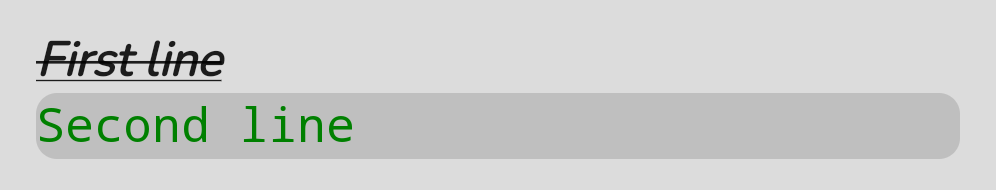
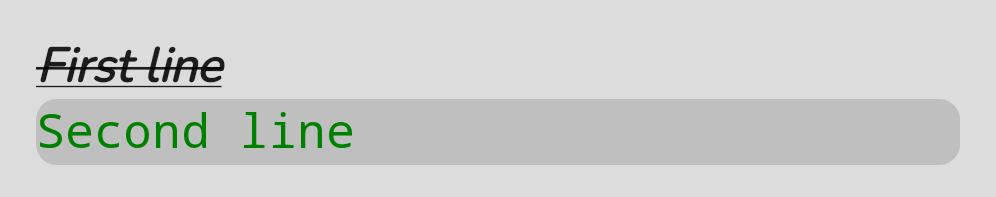
fix(Android): Measurement jumps (#864)
# Summary

While testing new `onScroll` prop I found out that we've had issues with
Android measurement jumps pretty much since auto-growth was added.

It can be seen here:

https://github.com/user-attachments/assets/1f14217c-fa68-4477-a501-bb8c90a821f9

Basically, strange scrolls and Input component offsets whenever:
- adding characters to an empty line
- removing characters from a line, resulting in emptying it
- adding new lines before reaching input's `maxHeight`

### 1. Empty lines measured too short

For apps targeting SDK 35+, `EditText` uses a locale-preferred minimum
line height (`setLocalePreferredLineHeightForMinimumUsed`), which keeps
empty lines as tall as lines with text. `MeasurementStore`'s
`StaticLayout` didn't apply it, so empty and code block lines were
measured a few px shorter than drawn. The view came out too short and
`EditText` scrolled by the difference (the `0.76` offset).

**Fix:** `MeasurementStore` applies the same
`setMinimumFontMetrics(paint.getFontMetricsForLocale(...))` when the
view uses it.

### 2. One-line jump while growing

The height update goes through an async Fabric state update. Before the
view grows, the new line is already laid out, and `EditText` scrolls it
into view, then back after the resize (`0 → 24.76 → 0`).

**Fix:** while a height update is pending, `scrollTo` caps the scroll at
the value it will have after the resize. It works that out from the
height limit Yoga passes to `measure()`: `0` if the text fits under it,
[…]

diff --git a/android/src/main/java/com/swmansion/enriched/textinput/MeasurementStore.kt b/android/src/main/java/com/swmansion/enriched/textinput/MeasurementStore.kt
@@ -1,6 +1,7 @@
 package com.swmansion.enriched.textinput
 
 import android.content.Context
+import android.graphics.Paint
 import android.graphics.Typeface
 import android.graphics.text.LineBreaker
 import android.os.Build
@@ -28,6 +29,7 @@ object MeasurementStore {
   data class PaintParams(
     val typeface: Typeface,
     val fontSize: Float,
+    val useLocalePreferredLineHeight: Boolean,
   )
 
   data class MeasurementParams(
@@ -36,6 +38,8 @@ object MeasurementStore {
     val cachedSize: Long,
     val spannable: CharSequence?,
     val paintParams: PaintParams,
+    // In px, as given by Yoga's measure
+    val maxTextHeight: Float? = null,
   )
 
   private val data = ConcurrentHashMap<Int, MeasurementParams>()
@@ -44,21 +48,25 @@ object MeasurementStore {
     id: Int,
     spannable: Spannable?,
     paint: TextPaint,
+    useLocalePreferredLineHeight: Boolean,
   ): Boolean {
     val cachedWidth = data[id]?.cachedWidth ?: 0f
     val cachedSize = data[id]?.cachedSize ?: 0L
     val initialized = data[id]?.initialized ?: true
+    val maxTextHeight = data[id]?.maxTextHeight
 
-    val size = measure(cachedWidth, spannable, paint)
-    val paintParams = PaintParams(paint.typeface, paint.textSize)
+    val size = measure(cachedWidth, spannable, paint, useLocalePreferredLineHeight)
+    val paintParams = PaintParams(paint.typeface, paint.textSize, useLocalePreferredLineHeight)
 
-    data[id] = MeasurementParams(initialized, cachedWidth, size, spannable, paintParams)
+    data[id] = MeasurementParams(initialized, cachedWidth, size, spannable, paintParams, maxTextHeight)
     return cachedSize != size
   }
 
   fun release(id: Int) {
     data.remove(id)
   }
+
+  fun getMaxTextHeight(id: Int): Float? = data[id]?.maxTextHeight
 
   private fun measure(
     maxWidth: Float,
@@ -71,13 +79,14 @@ object MeasurementStore {
         textSize = paintParams.fontSize
       }
 
-    return measure(maxWidth, spannable, paint)
+    return measure(maxWidth, spannable, paint, paintParams.useLocalePreferredLineHeight)
   }
 
   private fun measure(
     maxWidth: Float,
     spannable: CharSequence?,
     paint: TextPaint,
+    useLocalePreferredLineHeight: Boolean,
   ): Long {
     val text = spannable ?: ""
     val textLength = text.length
@@ -93,6 +102,13 @@ object MeasurementStore {
 
     if (Build.VERSION.SDK_INT >= Build.VERSION_CODES.P) {
       builder.setUseLineSpacingFromFallbacks(true)
+    }
+
+    // EditText (targetSdk 35+) keeps empty lines as tall as lines with text, otherwise they're measured shorter than drawn
+    if (useLocalePreferredLineHeight && Build.VERSION.SDK_INT >= Build.VERSION_CODES.VANILLA_ICE_CREAM) {
+      val minimumFontMetrics = Paint.FontMetrics()
+      paint.getFontMetricsForLocale(minimumFontMetrics)
+      builder.setMinimumFontMetrics(minimumFontMetrics)
     }
 
     val staticLayout = builder.build()
@@ -175,7 +191,7 @@ object MeasurementStore {
       }
 
     val typeface = applyStyles(defaultView.typeface, fontStyle, fontWeight, fontFamily, context.assets)
-    val paintParams = PaintParams(typeface, fontSize)
+    val paintParams = PaintParams(typeface, fontSize, defaultView.usesLocalePreferredLineHeight())
     val size = measure(width, text, paintParams)
 
     if (id != null) {
@@ -208,7 +224,7 @@ object MeasurementStore {
         textSize = value.paintParams.fontSize
       }
 
-    val size = measure(width, value.spannable, paint)
+    val size = measure(width, value.spannable, paint, value.paintParams.useLocalePreferredLineHeight)
     data[id] = MeasurementParams(true, width, size, value.spannable, value.paintParams)
     return size
   }
@@ -222,6 +238,18 @@ object MeasurementStore {
     props: ReadableMap?,
   ): Long {
     val size = getMeasureById(context, id, width, props)
+
+    if (id != null) {
+      val maxTextHeight =
+        when (heightMode) {
+          YogaMeasureMode.AT_MOST -> height
+          YogaMeasureMode.UNDEFINED -> Float.POSITIVE_INFINITY
+          else -> null
+        }
+      // Atomic, so a concurrent store() from the UI thread isn't overwritten with stale text measurements
+      data.computeIfPresent(id) { _, params -> params.copy(maxTextHeight = maxTextHeight) }
+    }
+
     if (heightMode !== YogaMeasureMode.AT_MOST) {
       return size
     }

diff --git a/android/src/main/java/com/swmansion/enriched/textinput/EnrichedTextInputView.kt b/android/src/main/java/com/swmansion/enriched/textinput/EnrichedTextInputView.kt
@@ -99,6 +99,9 @@ class EnrichedTextInputView :
   val customStyles: CustomStyles? = CustomStyles(this)
   var isDuringTransaction: Boolean = false
   var isRemovingMany: Boolean = false
+
+  var isWaitingForHeightUpdate: Boolean = false
+  private var didCapScrollWhileWaiting = false
   var scrollEnabled: Boolean = true
   var allowFontScaling: Boolean = EnrichedConstants.ALLOW_FONT_SCALING_DEFAULT
     set(value) {
@@ -187,7 +190,25 @@ class EnrichedTextInputView :
     // Android's internal cursor tracker gets confused by ALIGN_CENTER + LeadingMarginSpan
     // and attempts to scroll the text horizontally.
     // We lock the horizontal scroll to 0 to prevent the view from shifting.
-    super.scrollTo(0, y)
+    // Height updates are async, so new text is laid out before the view grows. Cap the scroll at its
+    // post-resize value, otherwise EditText jumps to the new line and back.
+    val targetY = if (isWaitingForHeightUpdate) y.coerceAtMost(getMaxScrollAfterHeightUpdate()) else y
+    if (targetY < y) didCapScrollWhileWaiting = true
+    super.scrollTo(0, targetY)
+  }
+
+  fun onHeightUpdateMounted() {
+    isWaitingForHeightUpdate = false
+    if (!didCapScrollWhileWaiting) return
+    didCapScrollWhileWaiting = false
+    // The predicted height can be wrong (e.g. when it comes from flex)
+    post { forceScrollToSelection() }
+  }
+
+  private fun getMaxScrollAfterHeightUpdate(): Int {
+    val maxTextHeight = MeasurementStore.getMaxTextHeight(id) ?: return Int.MAX_VALUE
+    val textHeight = layout?.height ?: return Int.MAX_VALUE
+    return (textHeight - maxTextHeight).toInt().coerceAtLeast(0)
   }
 
   override fun onCreateInputConnection(outAttrs: EditorInfo): InputConnection? {
@@ -1126,6 +1147,9 @@ class EnrichedTextInputView :
       isDuringTransaction = false
     }
   }
+
+  fun usesLocalePreferredLineHeight(): Boolean =
+    Build.VERSION.SDK_INT >= Build.VERSION_CODES.VANILLA_ICE_CREAM && isLocalePreferredLineHeightForMinimumUsed
 
   private fun forceScrollToSelection() {
     val textLayout = layout ?: return

diff --git a/android/src/main/java/com/swmansion/enriched/textinput/EnrichedTextInputViewLayoutManager.kt b/android/src/main/java/com/swmansion/enriched/textinput/EnrichedTextInputViewLayoutManager.kt
@@ -13,12 +13,13 @@ class EnrichedTextInputViewLayoutManager(
     val text = view.text
     val paint = view.paint
 
-    val needUpdate = MeasurementStore.store(view.id, text, paint)
+    val needUpdate = MeasurementStore.store(view.id, text, paint, view.usesLocalePreferredLineHeight())
     if (!needUpdate) return
 
     forceHeightRecalculationCounter++
     val state = Arguments.createMap()
     state.putInt("forceHeightRecalculationCounter", forceHeightRecalculationCounter)
+    view.isWaitingForHeightUpdate = true
     stateWrapper.updateState(state)
   }
 

diff --git a/android/src/main/java/com/swmansion/enriched/textinput/EnrichedTextInputViewManager.kt b/android/src/main/java/com/swmansion/enriched/textinput/EnrichedTextInputViewManager.kt
@@ -58,6 +58,7 @@ class EnrichedTextInputViewManager :
     stateWrapper: StateWrapper?,
   ): Any? {
     view.stateWrapper = stateWrapper
+    view.onHeightUpdateMounted()
     return super.updateState(view, props, stateWrapper)
   }
 
